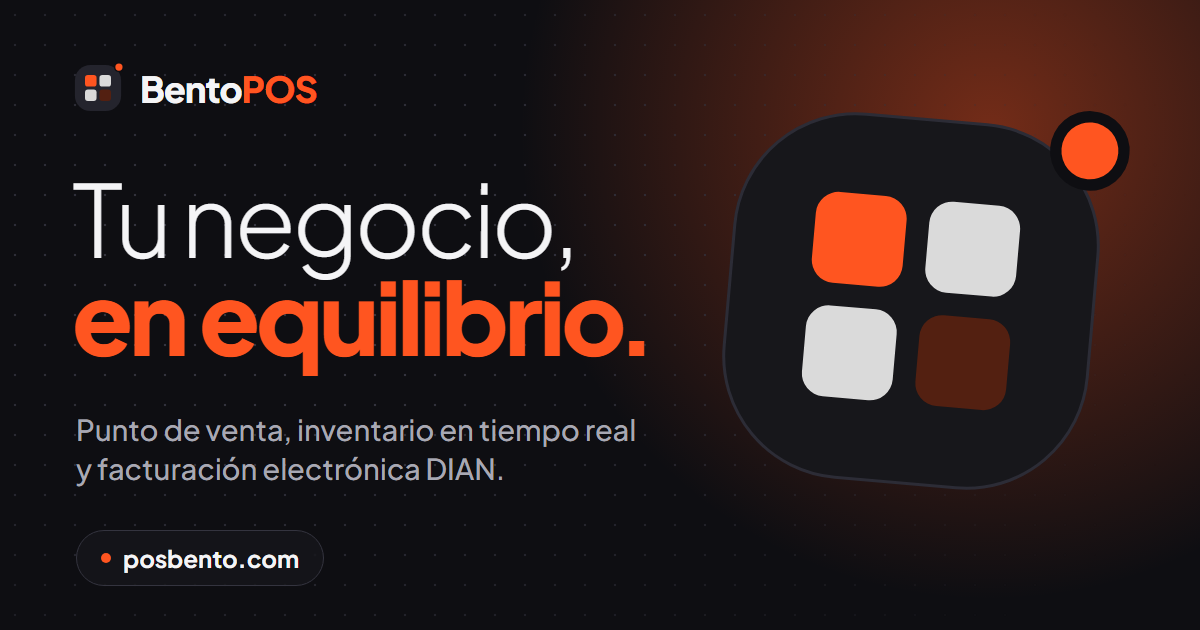
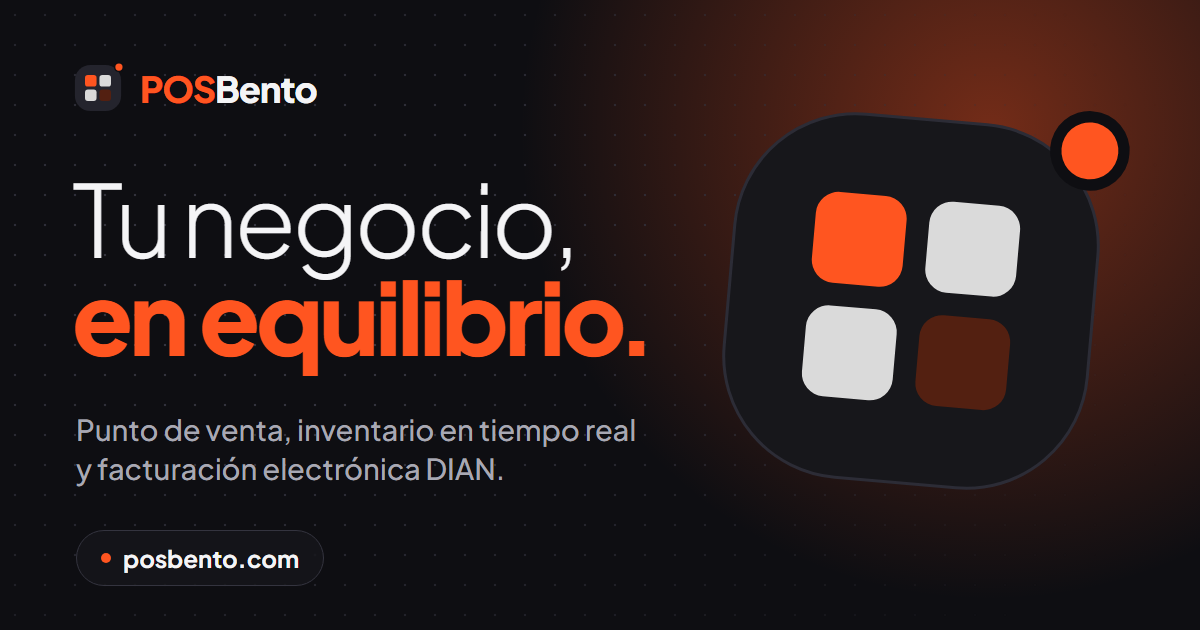
fix(landing): regenerate the social preview image with the PosBento name

Changed region(s): [[0.0925, 0.1206, 0.2775, 0.181]]

diff --git a/landing/scripts/og.html b/landing/scripts/og.html
@@ -74,7 +74,7 @@
       <circle cx="91.5" cy="4.5" r="10.5" fill="#0E0E12" />
       <circle cx="91.5" cy="4.5" r="7.5" fill="#FF5520" />
     </svg>
-    <span>Bento<b>POS</b></span>
+    <span><b>POS</b>Bento</span>
   </div>
 
   <h1><span>Tu negocio,</span><span class="o">en equilibrio<em style="font-style:normal;margin-left:-0.06em">.</em></span></h1>
